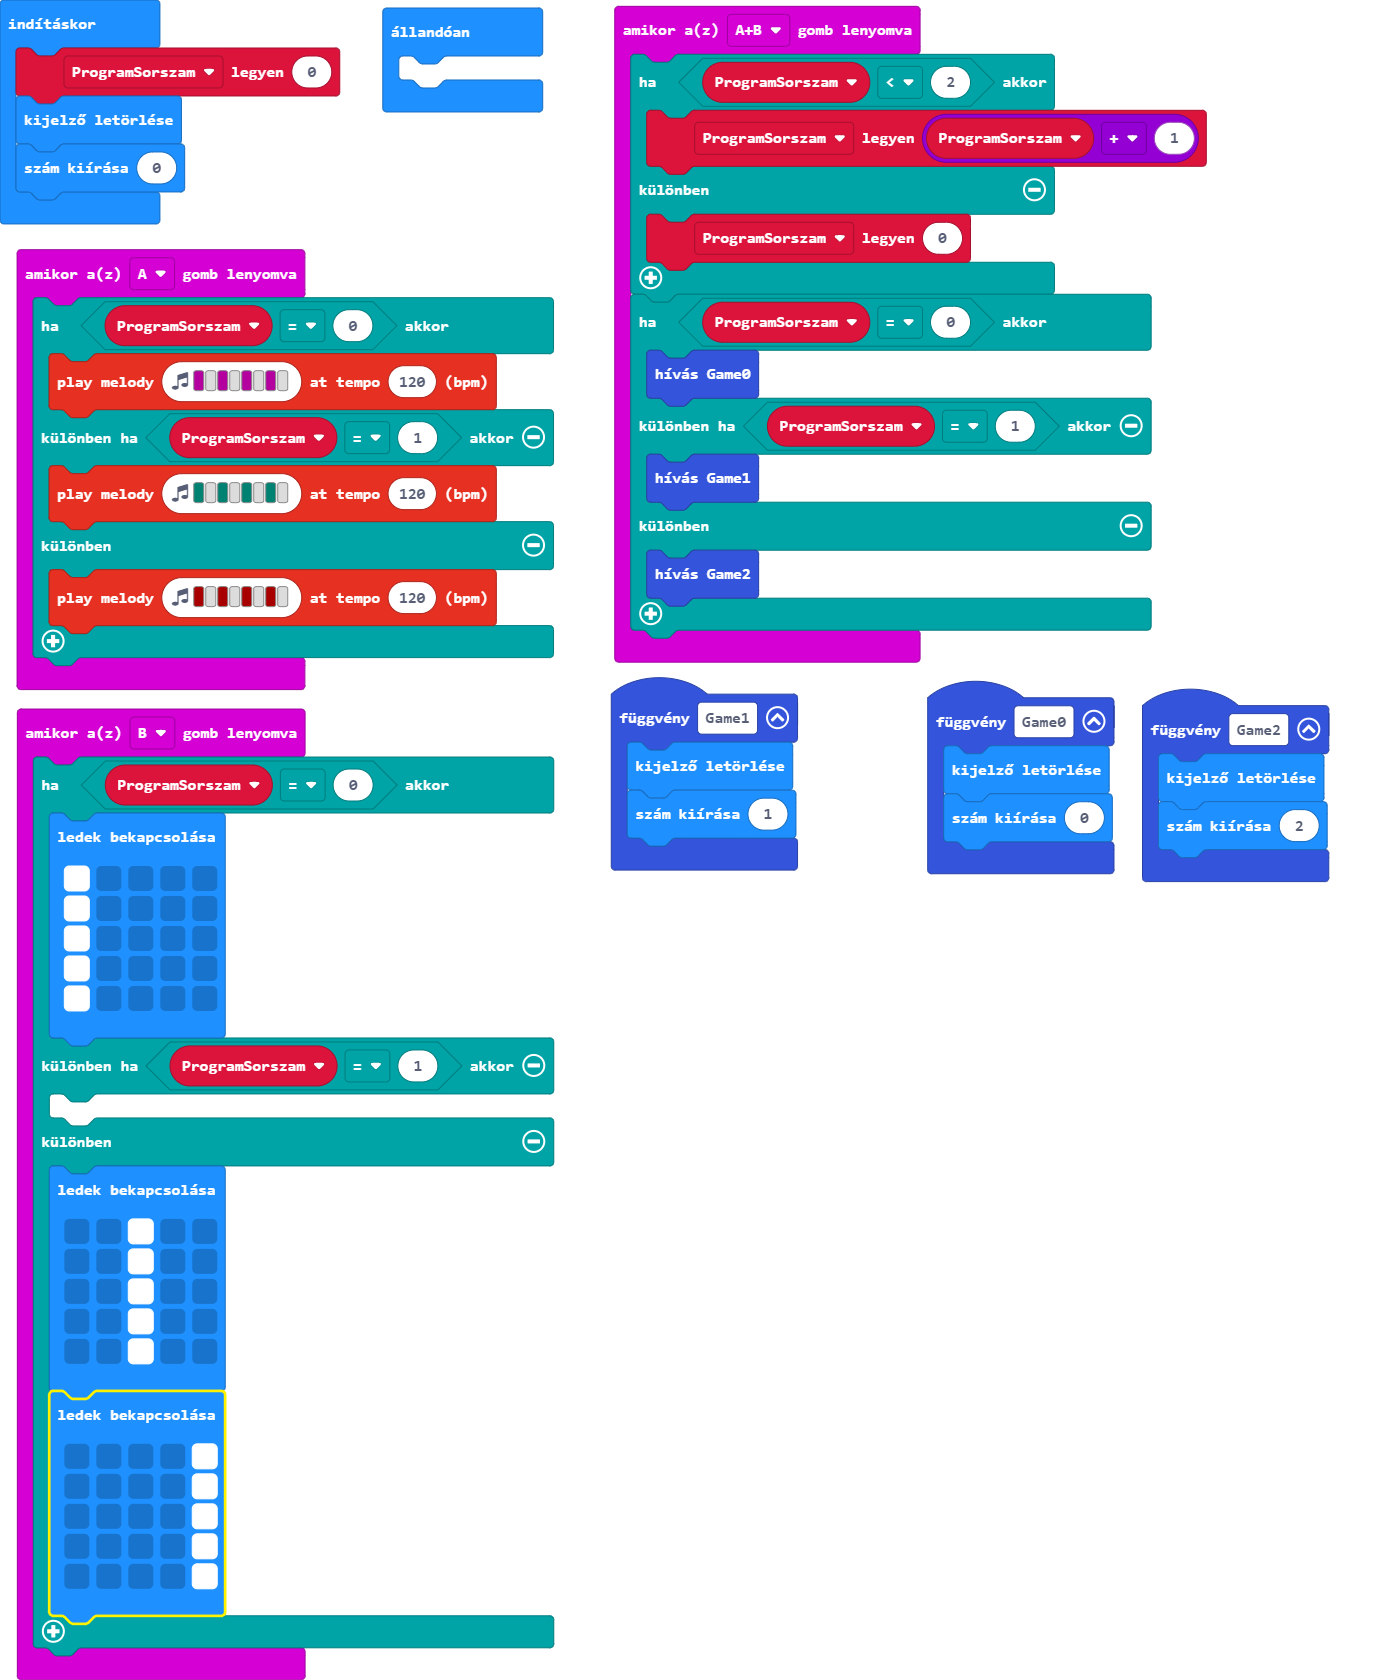
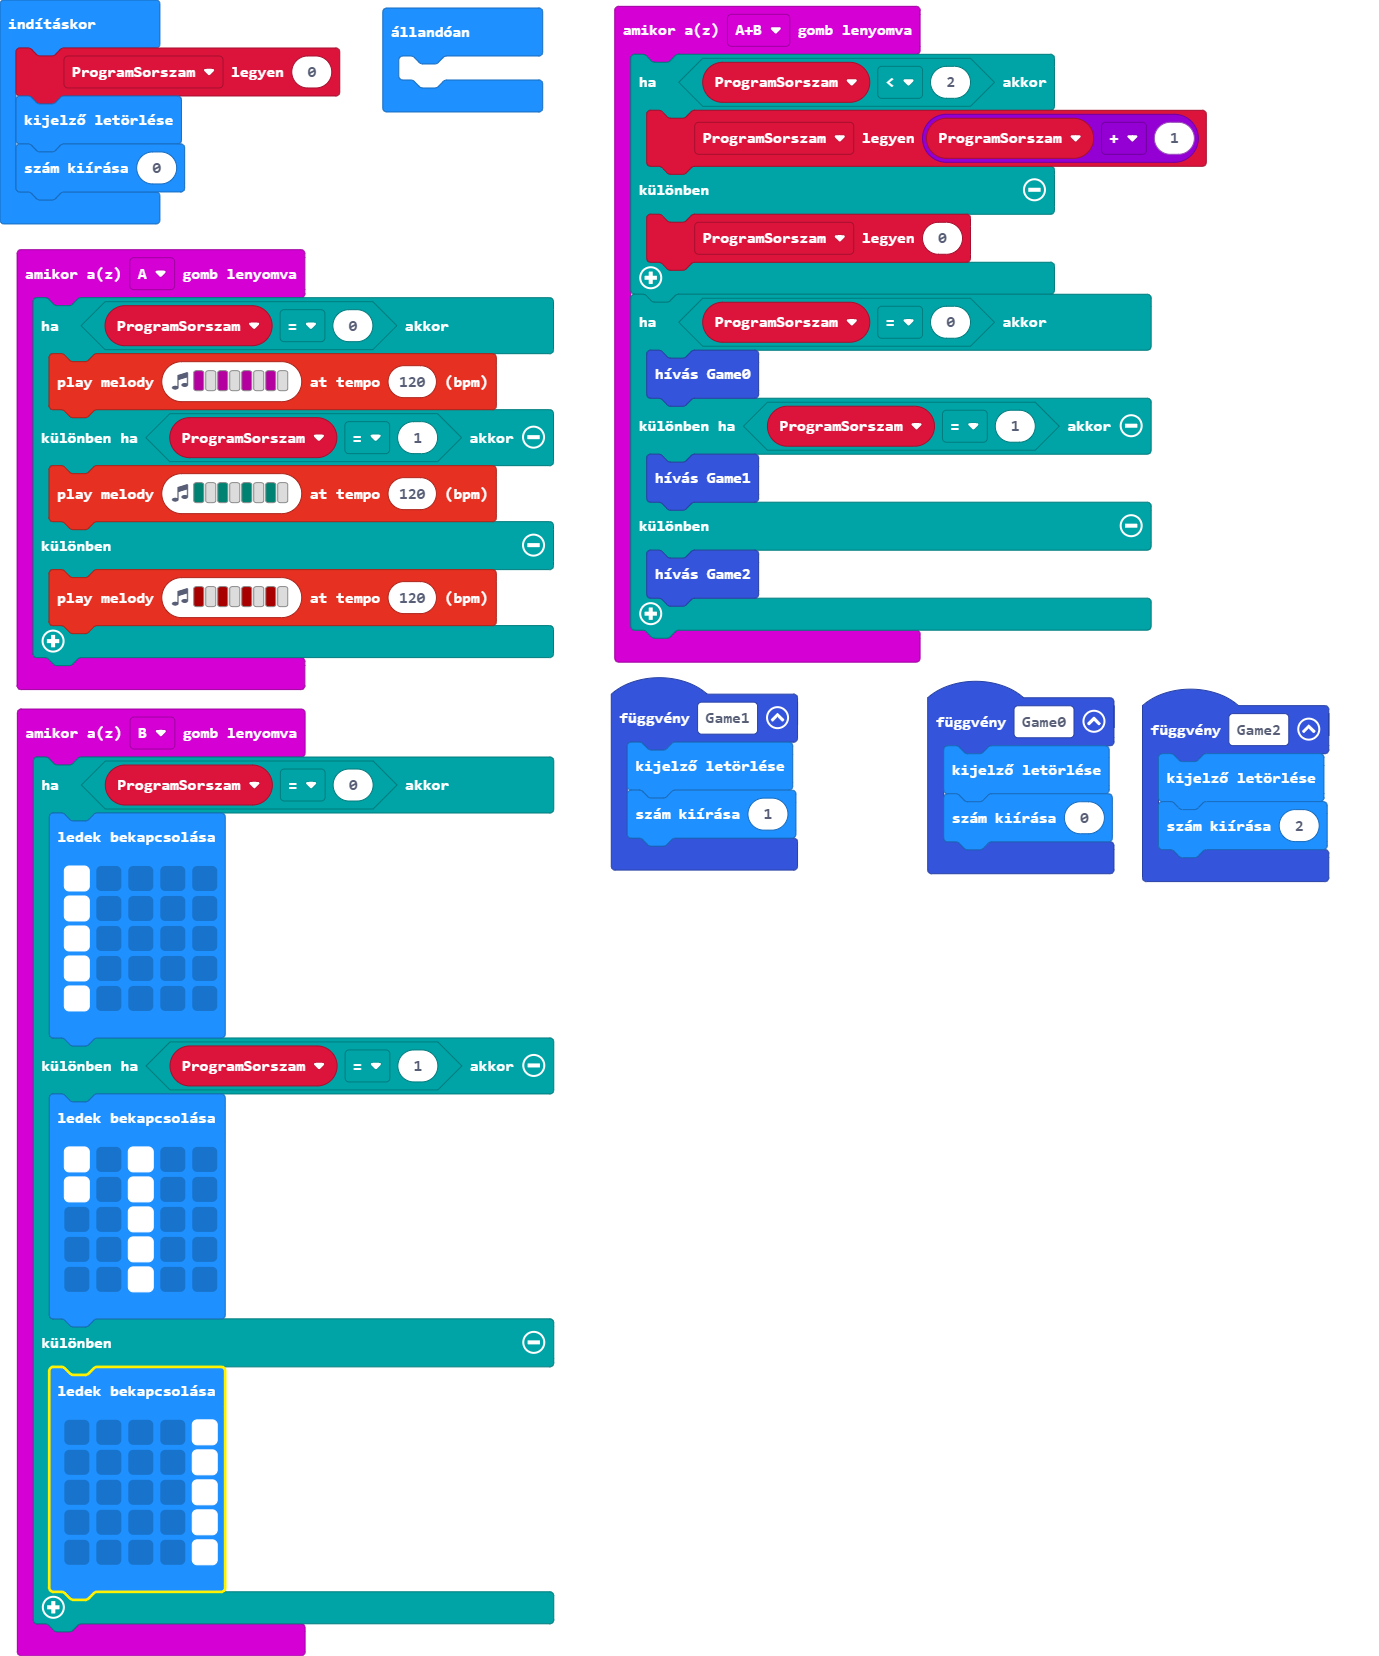
Update main.blocks, main.ts

Changed region(s): [[0.0, 0.0, 0.4054, 0.9855], [0.4365, 0.0308, 0.9666, 0.5543], [0.3118, 0.0308, 0.3742, 0.0616]]

diff --git a/main.ts b/main.ts
@@ -39,15 +39,14 @@ input.onButtonPressed(Button.B, function () {
             # . . . .
             `)
     } else if (ProgramSorszam == 1) {
-    	
-    } else {
         basic.showLeds(`
-            . . # . .
-            . . # . .
+            # . # . .
+            # . # . .
             . . # . .
             . . # . .
             . . # . .
             `)
+    } else {
         basic.showLeds(`
             . . . . #
             . . . . #
